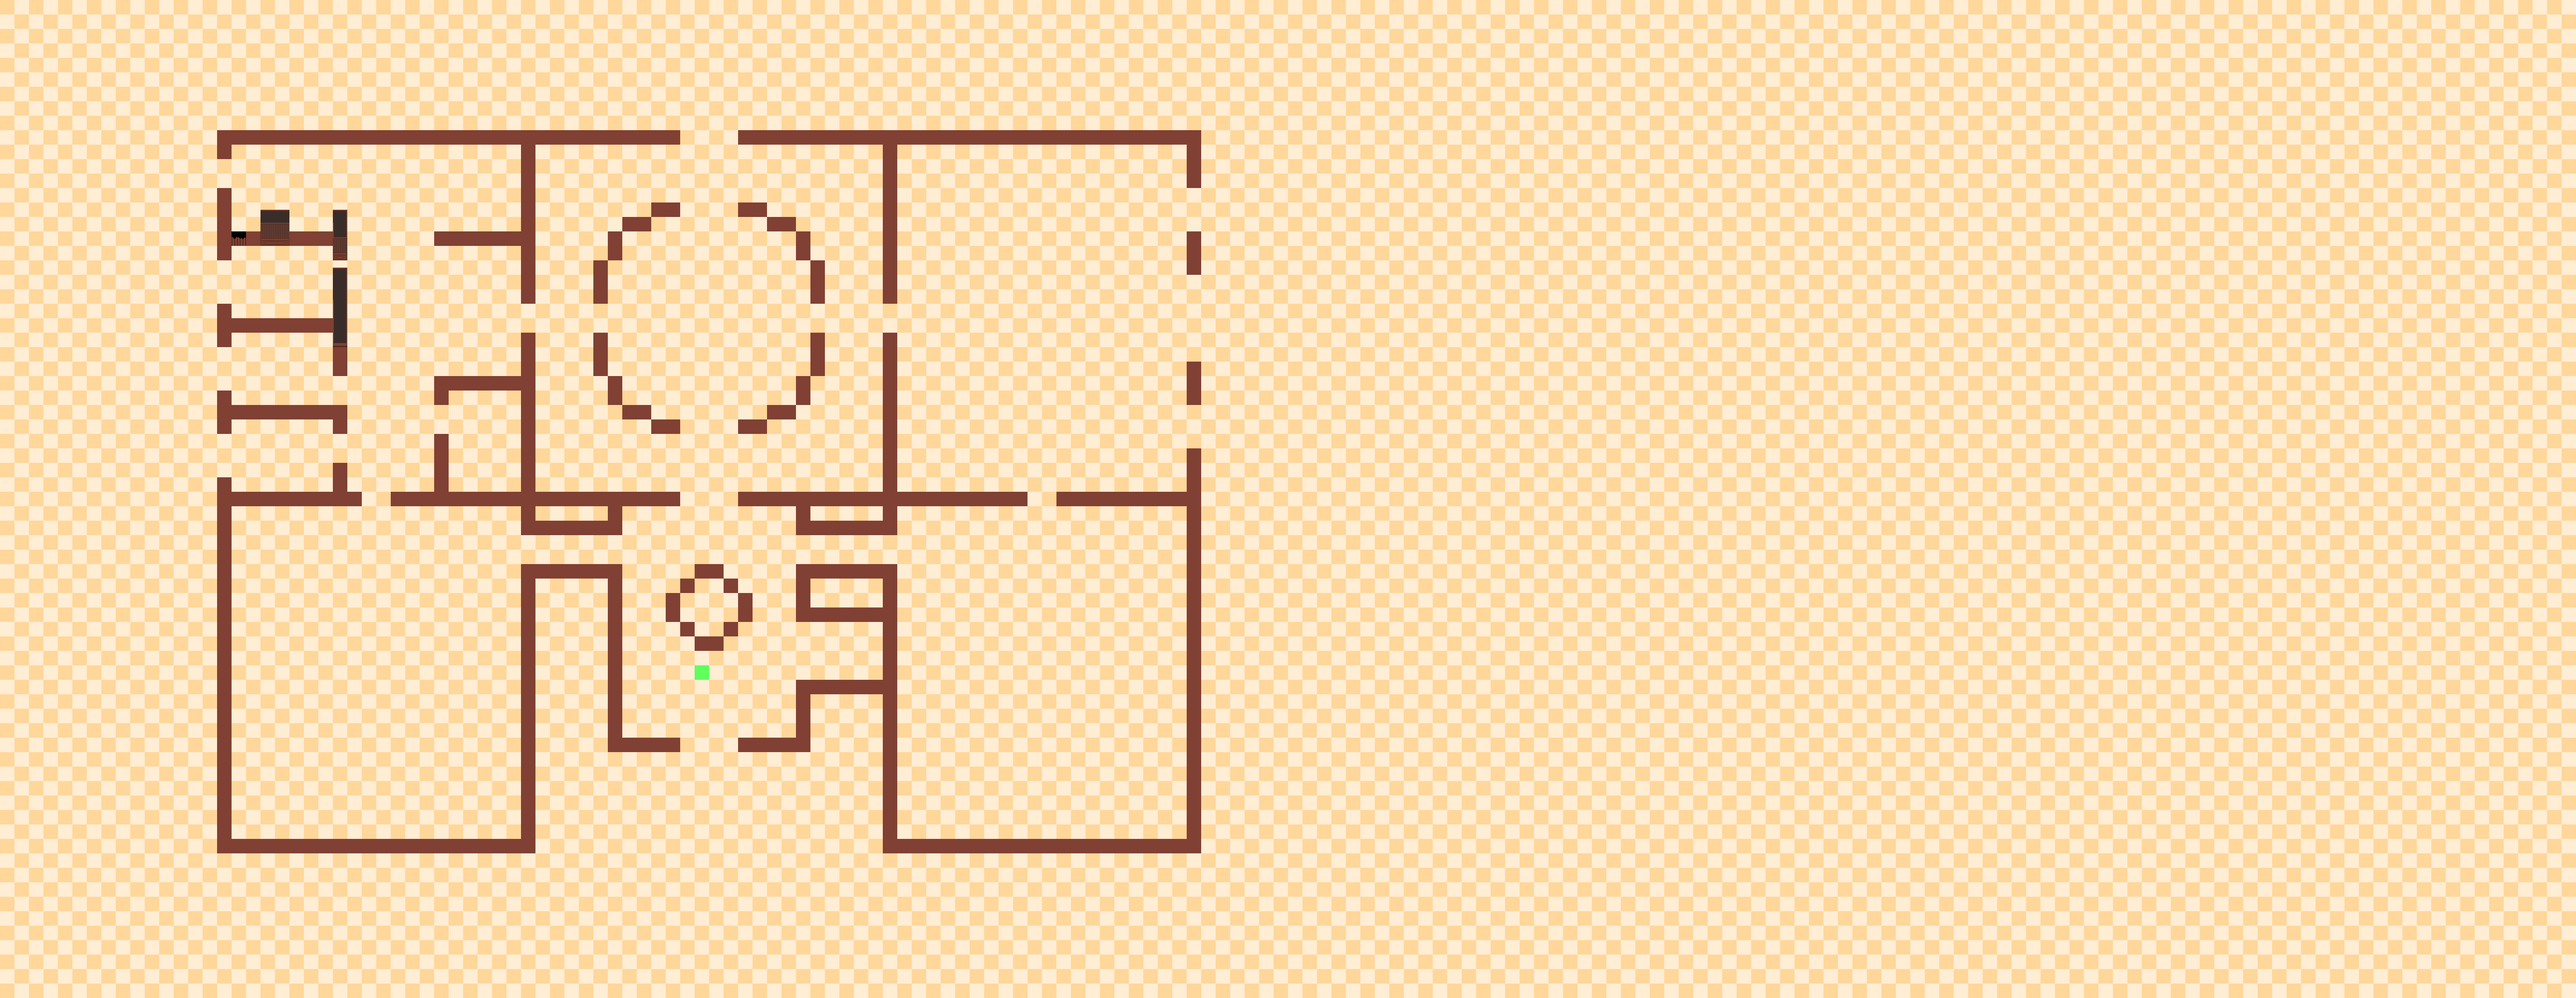
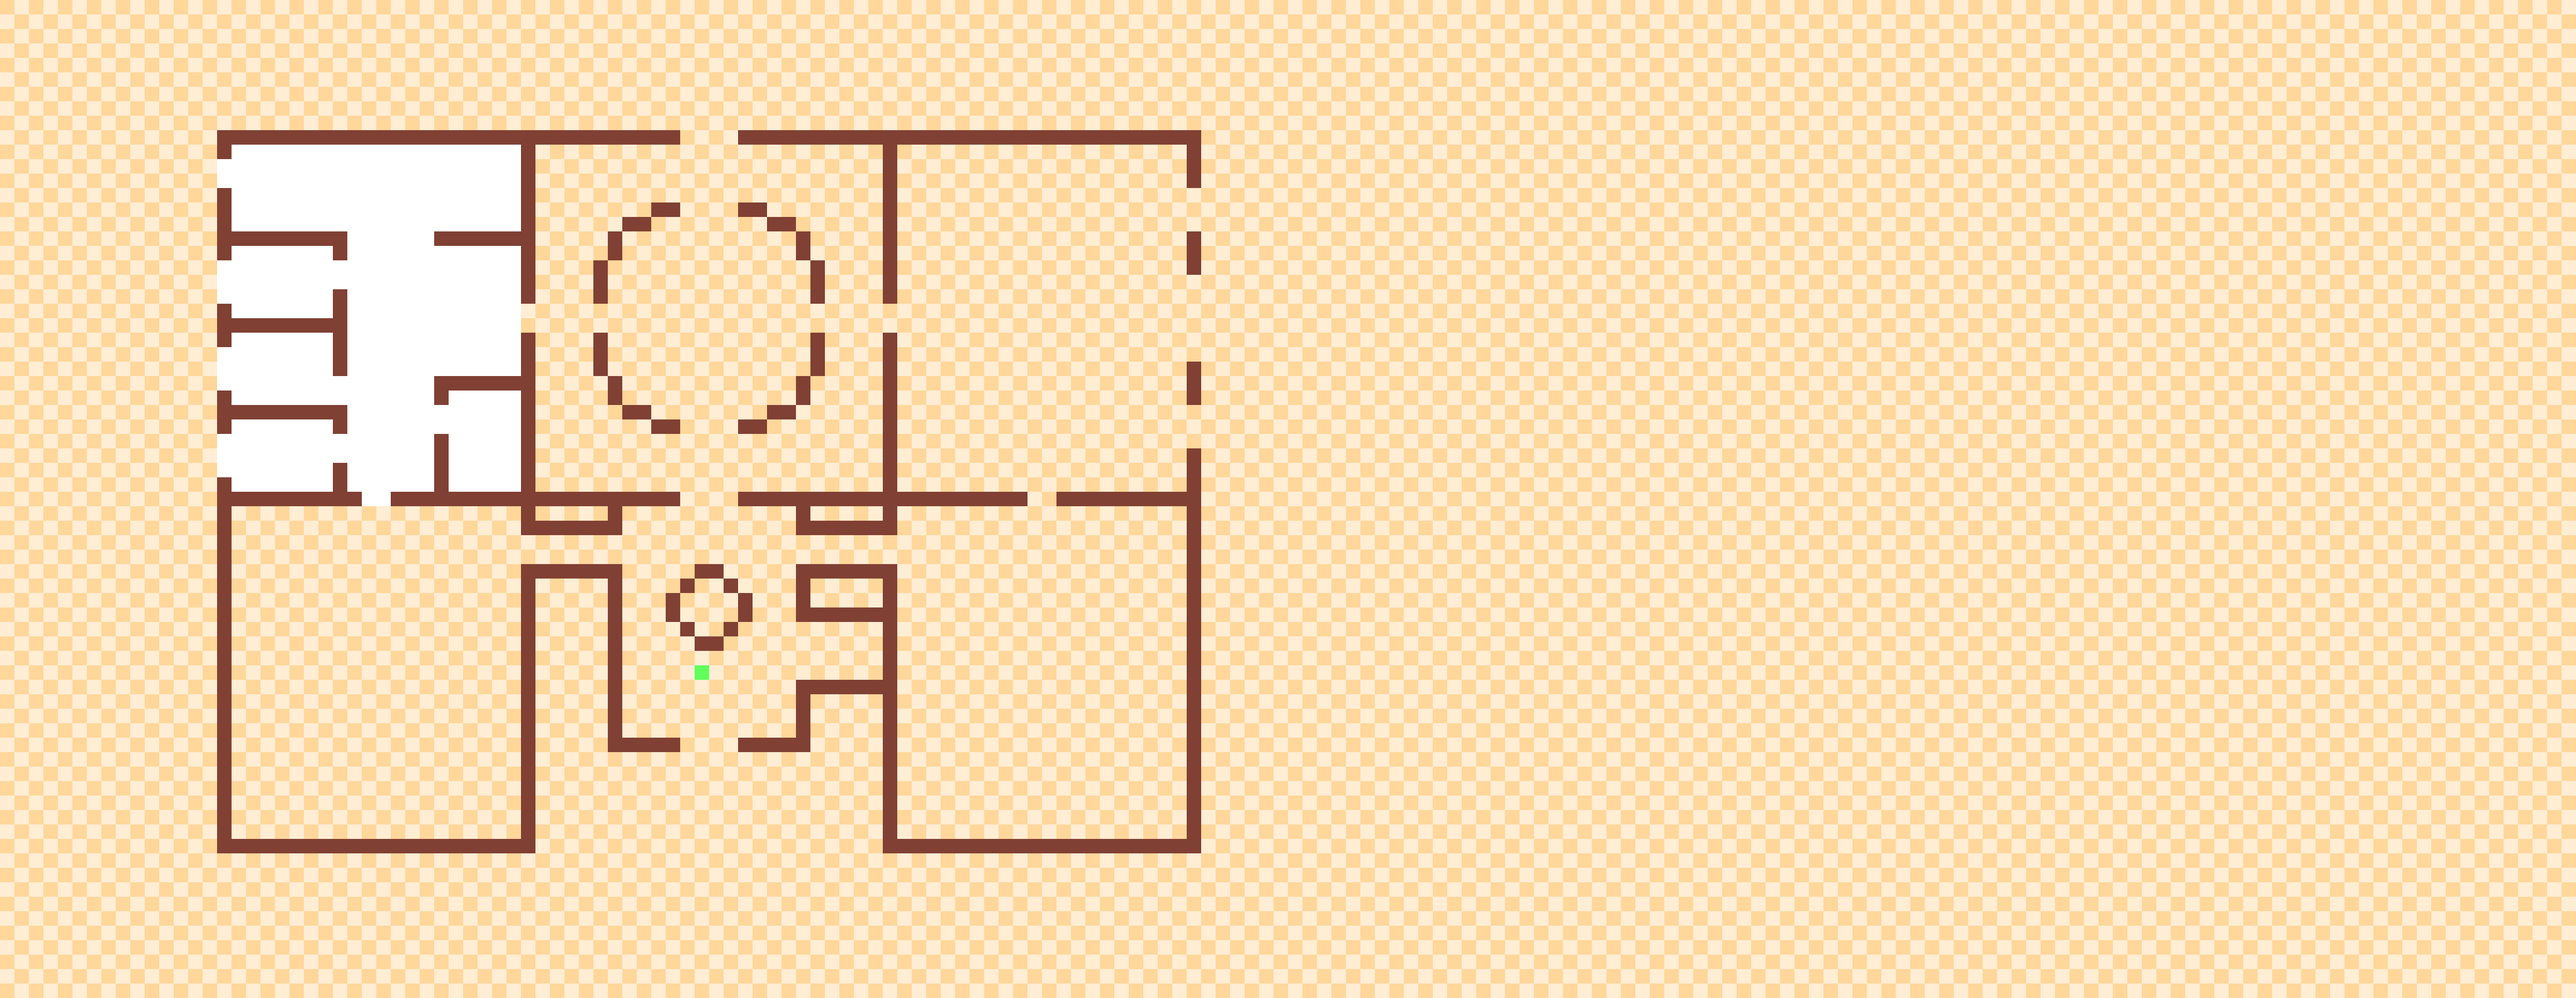
add painting and ground textures

Changed region(s): [[0.0625, 0.125, 0.2188, 0.5]]

diff --git a/src/main/java/com/cometkaizo/world/entity/CombinationPuzzleBox.java b/src/main/java/com/cometkaizo/world/entity/CombinationPuzzleBox.java
@@ -13,32 +13,23 @@ public class CombinationPuzzleBox extends Interactable {
     private static final String[] MESSAGES = {
             """
             Note #1
+            
             The day is 12 Chikchan 5 Uo.
-            
-            The expedition to the north has just returned. The sun has not shaken off the night, but voices and chants can be heard from within the ruler's temple. Expeditions like to the north used to be rare, but recent developments mean that can no longer be avoided. Currently, the captain of the exhibition presents himself before the ruler and his advisor. The discovery would endanger his entire people, but he has seen a path of escape.
-            
-            "-- and my Lord, the Darkness has been seen, but so has the salvation. The calendar - it is wrong. The date must be shifted --"
-            
-            The captain's voice cuts off, and he bends forward, choking.
             """,
             """
             Note #2
             
-            The captain is held up by two members of the expedition. His face is contorted with concentration. For the past sun cycle he has remained here before the ruler, whose advisor asks a seemingly endless number of questions. The ruler and the advisor are fixated on information about the Darkness. But the captain, contrary to his usual competence, cannot seem to answer. Since the previous dawn, every time he goes to speak about the Darkness, his throat contracts and he chokes on his own knowledge. It seems that his communication of the Darkness cannot be intentional.
-            
-            Finally, the ruler runs out of patience. He dismisses the captain and goes to leave, but the captain suddenly stops trying to speak and raises his fist in the air. The ruler turns. With an exaggerated motion, the captain brings his fist down and hits the ground at his feet. He raises it back up slowly, and repeats the gesture two more times. The advisor understands - at last communication has been reestablished between them. He orders the inner wheel to be incremented 3 times.
+            The inner wheel is incremented 3 times.
             """,
             """
             Note #3
             
-            The ruler sits in intense thought. It seems the Darkness has powers far above their comprehension. The captain can now no longer move his arms, but he evidently has more to say. His eyes have been darting about in a panicked frenzy. The ruler had avoided looking at the captain's deranged appearance, but his advisor cannot seem to avert his gaze. Presently, the advisor startles up.
-            
-            "I understand!" he exclaims, looking at the captain's spinning eyes. The eyes spin exactly two full rotations, then stop. The captain had been repeating the motion for the whole night. The outer wheel is incremented 2 times.
+            The outer wheel is incremented 2 times.
             """,
             """
             Note #4
             
-            A day passes. The large rightmost wheel is decremented 4 times.
+            The large rightmost wheel is decremented 4 times.
             """,
             """
             Note #5
@@ -54,6 +45,7 @@ public class CombinationPuzzleBox extends Interactable {
     private int variant;
     private String overlayVariant;
     private String message;
+    private boolean solid;
 
     private boolean open;
     private long openMessageTick = -1;
@@ -90,6 +82,8 @@ public class CombinationPuzzleBox extends Interactable {
         message = MESSAGES[variant - 1];
         overlayVariant = originalArgs.next("regular");
 
+        solid = originalArgs.next("solid").equalsIgnoreCase("solid");
+
         boundingBox = new BoundingBox(Vector.mutable(0D, 0D), Vector.immutable((double) w, h));
     }
 
@@ -101,13 +95,18 @@ public class CombinationPuzzleBox extends Interactable {
 
     @Override
     public boolean isSolid(Entity entity) {
-        return true;
+        return solid;
     }
 
     @Override
     public void render(Canvas canvas) {
         super.render(canvas);
         canvas.renderDebugBoundingBox(boundingBox, Color.DARK_GRAY);
+    }
+
+    @Override
+    public double getRenderY() {
+        return getY() + 0.8;
     }
 
     @Override

diff --git a/src/main/java/com/cometkaizo/world/entity/Painting.java b/src/main/java/com/cometkaizo/world/entity/Painting.java
@@ -4,6 +4,7 @@ import com.cometkaizo.screen.overlay.PaintingOverlay;
 import com.cometkaizo.world.Args;
 import com.cometkaizo.world.Room;
 import com.cometkaizo.world.Vector;
+import com.cometkaizo.world.block.WallBlock;
 
 public class Painting extends Interactable {
     private String variant, label;
@@ -29,13 +30,25 @@ public class Painting extends Interactable {
     }
 
     @Override
+    protected boolean canBeInteracted() {
+        // expand interaction hitbox up by 0.8 blocks so that paintings with walls below them can be interacted from farther up
+        return room.player.canInteract() && boundingBox.expanded(0.8, 0, 0, 0).expanded(0.1).intersects(room.player.boundingBox);
+    }
+
+    @Override
     protected String getTexturePath() {
         return "painting/" + variant;
     }
 
     @Override
     public double getRenderY() {
-        if (h == 1) return boundingBox.getTop() - 0.1;
-        else return super.getRenderY();
+        if (w != 1) {
+            // prevent the player from rendering below this painting if it's up against a wall
+            boolean hasWallAbove = layer.isBlockType((int) getX(), (int) getY() + 1, WallBlock.class);
+            if (hasWallAbove) return boundingBox.getTop() - 0.1;
+            boolean hasWallBelow = layer.isBlockType((int) getX(), (int) getY() - 1, WallBlock.class);
+            if (hasWallBelow) return boundingBox.getBottom() - 0.1;
+        }
+        return super.getRenderY();
     }
 }

diff --git a/src/main/java/com/cometkaizo/world/Room.java b/src/main/java/com/cometkaizo/world/Room.java
@@ -553,6 +553,9 @@ public class Room implements Tickable, Renderable, Resettable {
         public Optional<Class<? extends Block>> getBlockType(int x, int y) {
             return getBlock(x, y).map(Block::getClass);
         }
+        public boolean isBlockType(int x, int y, Class<? extends Block> type) {
+            return getBlockType(x, y).orElse(null) == type;
+        }
 
         public boolean containsSolid(BoundingBox boundingBox, Entity entity) {
             return !getBlocksWithin(boundingBox, block -> block.isSolid(entity)).isEmpty() ||
@@ -603,7 +606,6 @@ public class Room implements Tickable, Renderable, Resettable {
             if (entity.hasName()) named.remove(entity.getName(), entity);
             return entity;
         }
-
     }
 
     public record Checkpoint(Vector.ImmutableDouble pos, BoundingBox activationArea, String name) {

diff --git a/src/main/java/com/cometkaizo/world/block/GroundBlock.java b/src/main/java/com/cometkaizo/world/block/GroundBlock.java
@@ -7,8 +7,6 @@ import com.cometkaizo.world.entity.Entity;
 
 public class GroundBlock extends Block {
 
-    protected String textureVariation;
-
     public GroundBlock(Room.Layer layer, Vector.ImmutableInt position, Args args) {
         super(layer, position, args);
     }
@@ -19,14 +17,8 @@ public class GroundBlock extends Block {
     }
 
     @Override
-    public void reset() {
-        super.reset();
-        textureVariation = originalArgs.next(null);
-    }
-
-    @Override
     protected String getTexturePath() {
-        return textureVariation != null ? "ground/" + textureVariation : null;
+        return "ground/1";
     }
 
 }

diff --git a/src/main/java/com/cometkaizo/world/block/WallBlock.java b/src/main/java/com/cometkaizo/world/block/WallBlock.java
@@ -37,11 +37,16 @@ public class WallBlock extends Block {
 
     @Override
     protected String getTexturePath() {
-        return "wall/" + ((isConnectedE() && isConnectedW() && getX()%2 == 0) ? "2" : "1");
+        return "wall/" + ((isConnectedE() && isConnectedW() && !isConnectedS() && getX()%2 == 0) ? "2" : "1");
     }
 
     @Override
     protected AtlasTexture getAtlasTexture() {
         return ConnectorAtlasTexture.get(this);
+    }
+
+    @Override
+    protected double getHeight() {
+        return 2.5;
     }
 }

diff --git a/src/main/java/com/cometkaizo/world/entity/BoundingBox.java b/src/main/java/com/cometkaizo/world/entity/BoundingBox.java
@@ -65,6 +65,10 @@ public class BoundingBox {
         return new BoundingBox(Vector.mutable(getLeft() - amount, getBottom() - amount),
                 Vector.immutable(getWidth() + amount * 2, getHeight() + amount * 2));
     }
+    public BoundingBox expanded(double u, double r, double d, double l) {
+        return new BoundingBox(Vector.mutable(getLeft() - l, getBottom() - d),
+                Vector.immutable(getWidth() + (r + l), getHeight() + (d + u)));
+    }
 
     @Override
     public String toString() {

diff --git a/src/main/java/com/cometkaizo/world/block/Block.java b/src/main/java/com/cometkaizo/world/block/Block.java
@@ -56,7 +56,7 @@ public abstract class Block implements Renderable, DataSerializable, Resettable 
         return Assets.texture("block/" + texturePath);
     }
     protected double getHeight() {
-        return 2.5;
+        return 1;
     }
     protected AtlasTexture getAtlasTexture() {
         return AtlasTexture.SINGLE_BLOCK;

diff --git a/src/main/java/com/cometkaizo/world/entity/Sign.java b/src/main/java/com/cometkaizo/world/entity/Sign.java
@@ -50,4 +50,14 @@ public class Sign extends Interactable {
     public boolean isSolid(Entity entity) {
         return true;
     }
+
+    @Override
+    protected int getTextureDeltaX() {
+        return -2;
+    }
+
+    @Override
+    protected int getTextureDeltaY() {
+        return 2;
+    }
 }
